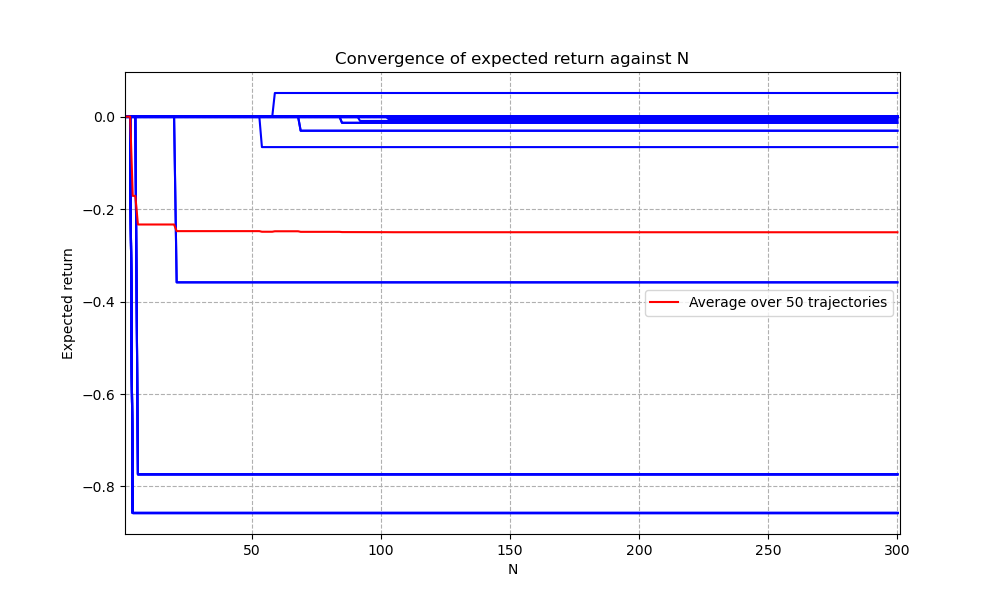
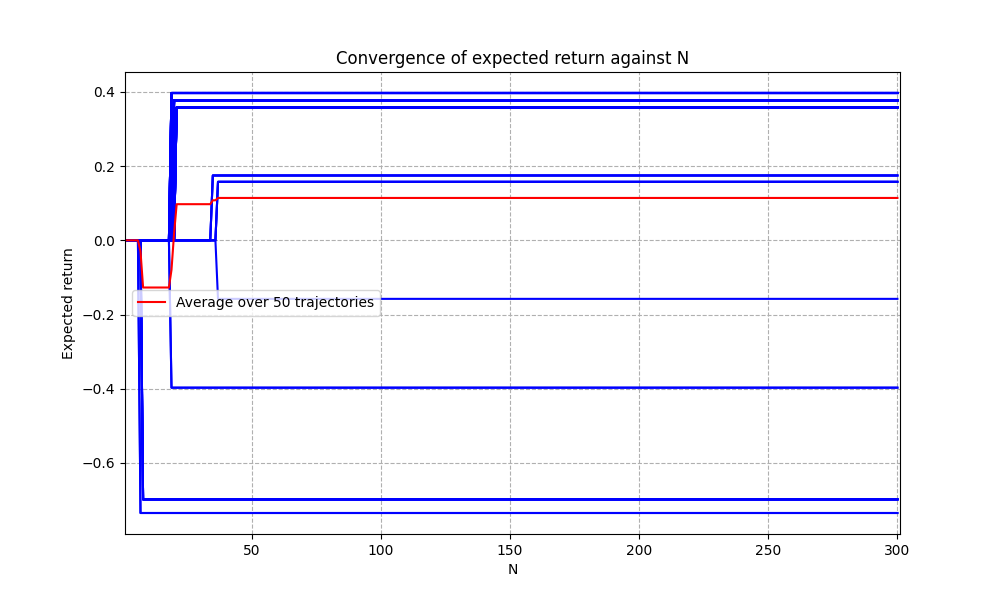
update sec5

Changed region(s): [[0.093, 0.15, 0.899, 0.87], [0.341, 0.09, 0.682, 0.12], [0.62, 0.9, 0.651, 0.93]]

diff --git a/src/p2/section5.py b/src/p2/section5.py
@@ -75,6 +75,8 @@ class ReplayBuffer(Dataset):
         self.rew2 = 0
         self.buffer = torch.empty((capacity, 7), dtype=torch.float32, device=device)
         self.p_experience = torch.empty((capacity, 1), dtype=torch.float32, device=device)
+        self.sm = torch.nn.Softmax(dim=0)
+        self.full = False
 
     def push(self, state, action, reward, next_state, done, error):
         if reward == 1:
@@ -88,14 +90,21 @@ class ReplayBuffer(Dataset):
 
         self.buffer[idx] = torch.tensor([p, s, action, reward, p_next, s_next, done], dtype=torch.float32, device=device)
         self.p_experience[idx] = torch.tensor([error], dtype=torch.float32, device=device)
-        print(self.p_experience[idx])
+
         self.counter += 1
         # remove overflow of the counter
-        if self.counter > self.capacity:
+        if self.counter >= self.capacity:
             self.counter = self.counter % self.capacity
+            self.full = True
 
     def sample(self, batch_size):
-        idxs = torch.randint(0, min(self.counter, self.capacity), size=(batch_size,), device=device)
+        # Assuming self.p_experience might be incorrectly shaped
+        if self.full:
+            probs = self.sm(self.p_experience.flatten())
+        else:
+            probs = self.sm(self.p_experience[:self.counter].flatten())
+
+        idxs = torch.multinomial(probs, batch_size, replacement=True).to(device)
         return self.buffer[idxs]
 
     def __len__(self):
@@ -103,8 +112,6 @@ class ReplayBuffer(Dataset):
 
     def __getitem__(self, idx):
         return self.buffer[idx]
-
-
 
 def parametric_q_learning(domain=Domain(), num_epochs=200, epsilon=.1, hidden_layers=[8, 16, 32, 16, 8], batch_size=8, buffer_size=100000, target_update_rate=1000, exp_every=500):
     print(f"Using device: {device}")
@@ -136,6 +143,9 @@ def parametric_q_learning(domain=Domain(), num_epochs=200, epsilon=.1, hidden_la
                 if r == 1 or r == -1:
                     done = 1
                     domain.reset()
+                    p_sample = np.random.uniform(-1, 1)
+                    s_sample = 0
+                    domain.set_state(p_sample, s_sample)
                 else:
                     done = 0
 
@@ -144,17 +154,17 @@ def parametric_q_learning(domain=Domain(), num_epochs=200, epsilon=.1, hidden_la
 
                 done = torch.tensor([done], dtype=torch.float32).to(device)
 
-                future_q_values_pos = target_model(torch.tensor([p_next, s_next, 4], dtype=torch.float32, device=device)).unsqueeze(0)
-                future_q_values_neg = target_model(torch.tensor([p_next, s_next, -4], dtype=torch.float32, device=device)).unsqueeze(0)
+                future_q_values_pos = target_model(torch.tensor([p_next, s_next, 4], dtype=torch.float32, device=device))
+                future_q_values_neg = target_model(torch.tensor([p_next, s_next, -4], dtype=torch.float32, device=device))
 
-                # Take the max future Q value among the possible actions
-                max_future_q_values, _ = torch.max(torch.cat((future_q_values_pos, future_q_values_neg), dim=1)\
-                                            , dim=1, keepdim=True)
-                
-                # Compute Q targets for current states            
+                # Take the max future Q value among the possible actions without keepdim
+                max_future_q_values = torch.max(torch.stack((future_q_values_pos, future_q_values_neg)), dim=0)[0]
+
+                # Since y and done are already 1D, expected_q_values will also be 1D
                 expected_q_values = y + (1 - done) * domain.discount * max_future_q_values
-                error = criterion(model(X), expected_q_values).detach()
 
+                # Now both model(X) and expected_q_values are 1D
+                error = criterion(model(X), expected_q_values)  # Ensure model(X) is also 1D if not
                 replay_buffer.push((p, s), a, r, (p_next, s_next), done, error)
             
 
@@ -204,21 +214,22 @@ def parametric_q_learning(domain=Domain(), num_epochs=200, epsilon=.1, hidden_la
             loss.backward()
             optimizer.step()
 
-            # Estimating the expected return
-            if epoch % exp_every == 0:
-                opt_agent = NnOptimalAgent(model)
-                domain_empty = Domain() # Need another domain so that it doesn't affect domain used by PQL
-                policy_est = PolicyEstimator(domain_empty, opt_agent) # Initialize policy estimator
-                print("Estimating the expected return...")
-                all_returns = policy_est.policy_return(300, 50) # Should we define these as function args?
-                print("Done!")
-                exp_returns[0, epoch // exp_every] = epoch # Store the number of transitions
-                exp_returns[1, epoch // exp_every] = np.mean(all_returns[:-1]) # Store the estimated expected return
+            with torch.no_grad():
+                # Estimating the expected return
+                if epoch % exp_every == 0:
+                    opt_agent = NnOptimalAgent(model)
+                    domain_empty = Domain() # Need another domain so that it doesn't affect domain used by PQL
+                    policy_est = PolicyEstimator(domain_empty, opt_agent) # Initialize policy estimator
+                    print("Estimating the expected return...")
+                    all_returns = policy_est.policy_return(300, 50) # Should we define these as function args?
+                    print("Done!")
+                    exp_returns[0, epoch // exp_every] = epoch # Store the number of transitions
+                    exp_returns[1, epoch // exp_every] = np.mean(all_returns[:-1]) # Store the estimated expected return
 
-            if epoch % 1000 == 0:
-                print(f"Epoch {epoch+1}/{num_epochs}, Loss: {loss.item()}", flush=True)
-                print(f"The buffer is made up of {replay_buffer.counter} samples and of 1:{replay_buffer.rew}, -1:{replay_buffer.rew2}", flush=True)
-                print(f"Current epsilon: {agent.epsilon}", flush=True)
+                if epoch % 1000 == 0:
+                    print(f"Epoch {epoch+1}/{num_epochs}, Loss: {loss.item()}", flush=True)
+                    print(f"The buffer is made up of {replay_buffer.counter} samples and of 1:{replay_buffer.rew}, -1:{replay_buffer.rew2}", flush=True)
+                    print(f"Current epsilon: {agent.epsilon}", flush=True)
         except KeyboardInterrupt:
             print("Interrupted, saving model...")
             break
@@ -259,7 +270,7 @@ def plot_exp(exp_returns_nn, exp_returns_fqi, filename = "", path="../../figures
     """Comparing the evolution of the estimated expected return for FQI and PQL"""
     plt.figure(figsize=(10, 6))
     plt.plot(exp_returns_fqi[0,:], exp_returns_fqi[1,:], color = 'red', label = f'Fitted-Q-Iteration')
-    plt.plot(exp_returns_nn[0,:], exp_returns_nn[1,:], color = 'blue', label = f'Parametric Q-learning')
+    plt.scatter(exp_returns_nn[0,:], exp_returns_nn[1,:], color = 'blue', label = f'Parametric Q-learning')
     plt.title(f"Evolution of expected return against number of transitions")
     plt.xlabel('Number of transitions')
     plt.ylabel('Expected return')
@@ -271,14 +282,26 @@ def plot_exp(exp_returns_nn, exp_returns_fqi, filename = "", path="../../figures
 if __name__ == "__main__":
     np.random.seed(0)
     torch.manual_seed(0)
+    # FITTED Q-ITERATION PARAMETERS
+    traj = "uni-episodic" # Is this better or is uniform better?
+    alg = "trees" # We use extra trees
+    stop = 0 # We don't use early stopping
+    max_episodes = 1000 # Could use max_transitions instead if we use uniform sampling
+    episodes_incr = 100 # By how many episodes we increment at every iteration
 
+    N = 50 # Horizon considered for FQI
 
-    batch_size = 8
-    epsilon = [1, .1, .5]
-    buffer_size = 10000
-    num_epochs = 100000
-    target_update_rate = 1000
-    hidden_layers = [8, 16, 32, 16, 8]
+    n_initials = 50 # Number of starting states to estimate expected return
+    max_h = 300 # Max horizon to estimated expected return
+
+    # PARAMETRIC Q-LEARNING PARAMETERS
+
+    batch_size = 4 # Batch size
+    epsilon = [1, .1, .8] # Epsilon greedy parameters : start, end, decay rate
+    buffer_size = 10000 # Size of the replay buffer
+    num_epochs = 400000 # Number of epochs
+    target_update_rate = 1000 # How often we update the target network
+    hidden_layers = [8, 16, 32, 64, 32, 16, 8] # Hidden layers of the neural network
 
     exp_every = 5000 # How often we estimate the expected returns for PQL
 
@@ -309,25 +332,15 @@ if __name__ == "__main__":
 
     make_video(domain.get_trajectory(), options=('nn', 'nn', 'test'))
 
+    #######################
     # Deriving the estimation of expected returns
     domain.reset() # Create the environment
     domain.sample_initial_state() # Sample an initial state
-
-    traj = "episodic" # Is this better or is uniform better?
-    alg = "trees" # We use extra trees
-    stop = 0 # We don't use early stopping
-    max_episodes = 1000 # Could use max_transitions instead if we use uniform sampling
-    episodes_incr = 100 # By how many episodes we increment at every iteration
-
-    N = 50 # Horizon considered for FQI
-
-    n_initials = 50 # Number of starting states to estimate expected return
-    max_h = 300 # Max horizon to estimated expected return
 
     # Compute expected returns for FQI
     exp_ret_fqi = evol_returns(domain, traj, alg, stop, max_episodes, episodes_incr, N, n_initials, max_h)
 
     # Obtain the comparison plot
-    plot_exp(exp_ret_nn, exp_ret_fqi)
+    plot_exp(exp_ret_nn, exp_ret_fqi, path="./figures/section5")
 
 

diff --git a/src/p2/section4.py b/src/p2/section4.py
@@ -193,6 +193,24 @@ def get_set(domain=Domain(), mode='randn', n_iter=int(1e4)):
         print(np.unique(np.array(y), return_counts=True))   
         print(f"Generated {n_episodes} episodes. and X shape: {np.array(X).shape}")
         return np.array(X), np.array(y), np.array(z)
+    elif mode == 'uni-episodic':
+        n_episodes = n_iter
+        X, y, z = [], [], []
+        for _ in tqdm(range(n_episodes)):
+            r = 0
+            domain.sample_initial_state()
+            sample_p = np.random.uniform(-1, 1.00001)
+            sample_s = np.random.uniform(-3, 3.00001)
+            domain.set_state(sample_p, sample_s)
+            while r == 0:
+                (p, s), a, r, (p_next, s_next) = domain.step(np.random.choice([4, -4]), update=False)
+                X.append((p, s, a))
+                y.append(r)
+                z.append((p_next, s_next))
+            domain.reset()
+        print(np.unique(np.array(y), return_counts=True))   
+        print(f"Generated {n_episodes} episodes. and X shape: {np.array(X).shape}")
+        return np.array(X), np.array(y), np.array(z)
     else:
         raise ValueError("Invalid mode for generating dataset.")
 
